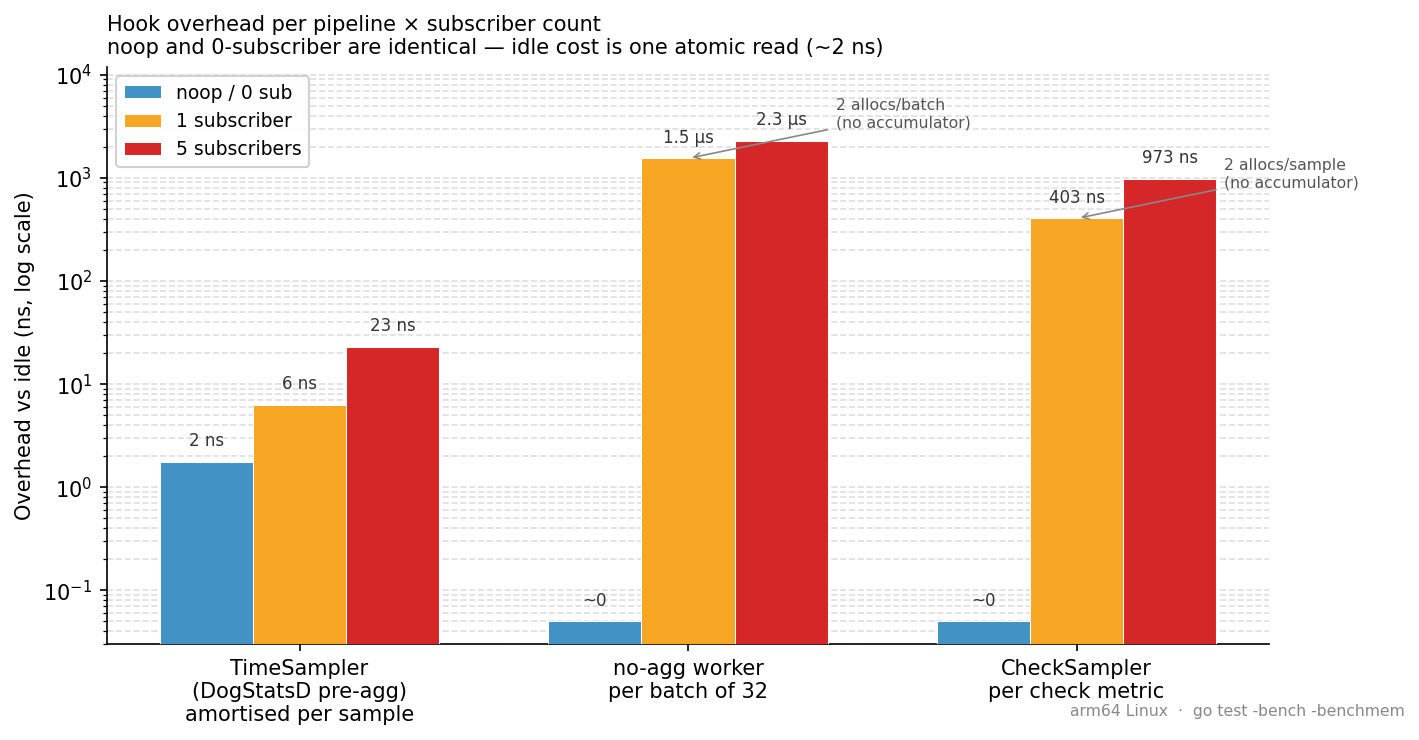
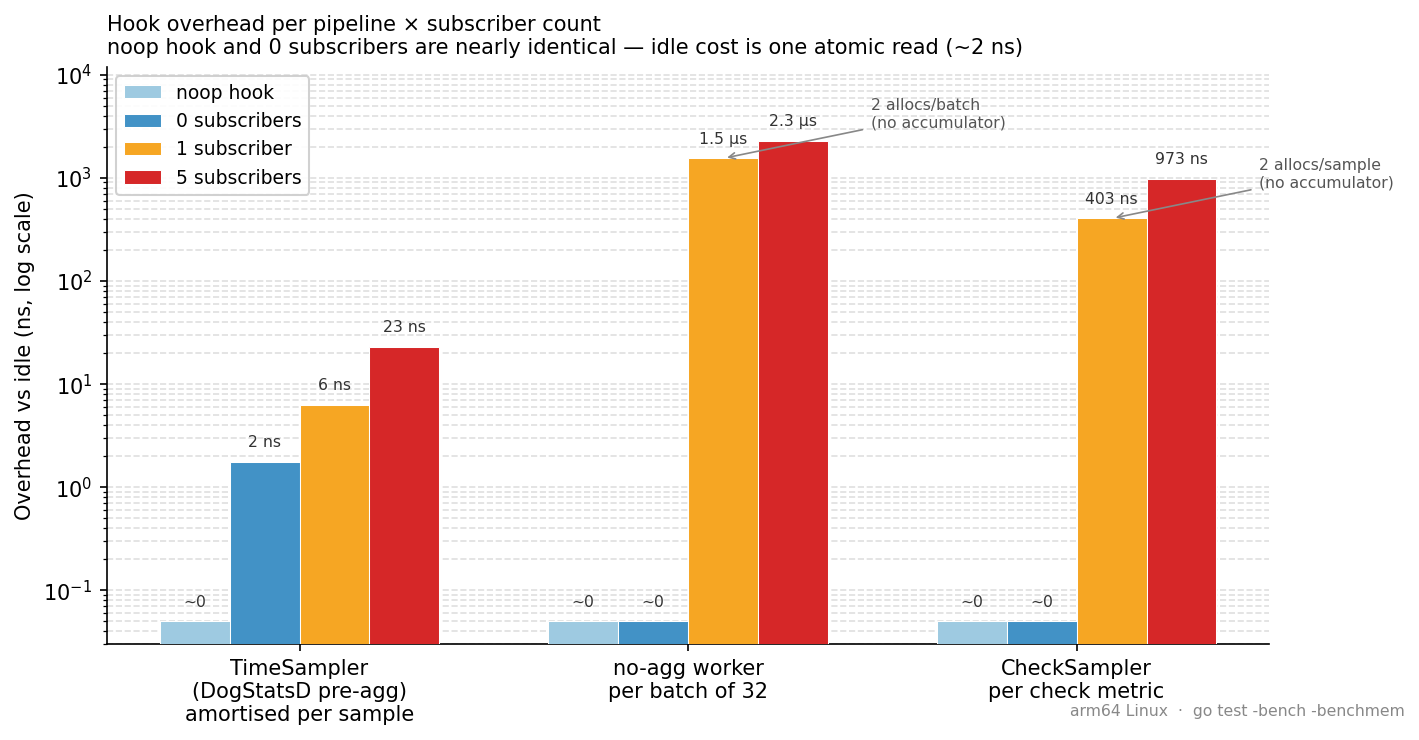
docs(pkg/hook): split noop and 0-subscriber into separate bars in overhead chart

diff --git a/pkg/hook/plot_overhead.py b/pkg/hook/plot_overhead.py
@@ -63,14 +63,15 @@ pipelines = [
     "CheckSampler\nper check metric",
 ]
 overhead = {
-    "noop / 0 sub": [max(ts_0sub, 0.05), max(na_0sub, 0.05), max(cs_0sub, 0.05)],
+    "noop hook":     [max(ts_noop, 0.05), max(na_noop, 0.05), max(cs_noop, 0.05)],
+    "0 subscribers": [max(ts_0sub, 0.05), max(na_0sub, 0.05), max(cs_0sub, 0.05)],
     "1 subscriber":  [ts_1sub, na_1sub, cs_1sub],
     "5 subscribers": [ts_5sub, na_5sub, cs_5sub],
 }
-colours = [C_0SUB, C_1SUB, C_5SUB]
+colours = [C_ZERO, C_0SUB, C_1SUB, C_5SUB]
 
 x = np.arange(len(pipelines))
-w = 0.24
+w = 0.18
 offsets = np.linspace(-(len(overhead) - 1) / 2, (len(overhead) - 1) / 2, len(overhead)) * w
 
 for (label, vals), colour, offset in zip(overhead.items(), colours, offsets):
@@ -86,7 +87,7 @@ for (label, vals), colour, offset in zip(overhead.items(), colours, offsets):
         else:
             txt = f"{v:.1f} ns"
         ax.text(bar.get_x() + bar.get_width() / 2, bar.get_height() * 1.3,
-                txt, ha="center", va="bottom", fontsize=8, color="#333333")
+                txt, ha="center", va="bottom", fontsize=7.5, color="#333333")
 
 ax.set_yscale("log")
 ax.set_ylim(0.03, 12000)
@@ -95,7 +96,7 @@ ax.set_xticklabels(pipelines, fontsize=10)
 ax.set_ylabel("Overhead vs idle (ns, log scale)", fontsize=10)
 ax.set_title(
     "Hook overhead per pipeline × subscriber count\n"
-    "noop and 0-subscriber are identical — idle cost is one atomic read (~2 ns)",
+    "noop hook and 0 subscribers are nearly identical — idle cost is one atomic read (~2 ns)",
     fontsize=10, loc="left",
 )
 ax.yaxis.grid(True, which="both", linestyle="--", alpha=0.4, zorder=0)
@@ -106,8 +107,8 @@ ax.spines[["top", "right"]].set_visible(False)
 for xpos, note in zip([1, 2], ["2 allocs/batch\n(no accumulator)", "2 allocs/sample\n(no accumulator)"]):
     ax.annotate(
         note,
-        xy=(xpos + offsets[1], overhead["1 subscriber"][xpos]),
-        xytext=(xpos + offsets[1] + 0.38, overhead["1 subscriber"][xpos] * 2),
+        xy=(xpos + offsets[2], overhead["1 subscriber"][xpos]),
+        xytext=(xpos + offsets[2] + 0.38, overhead["1 subscriber"][xpos] * 2),
         fontsize=7.5, color="#555555",
         arrowprops=dict(arrowstyle="->", color="#888888", lw=0.8),
     )